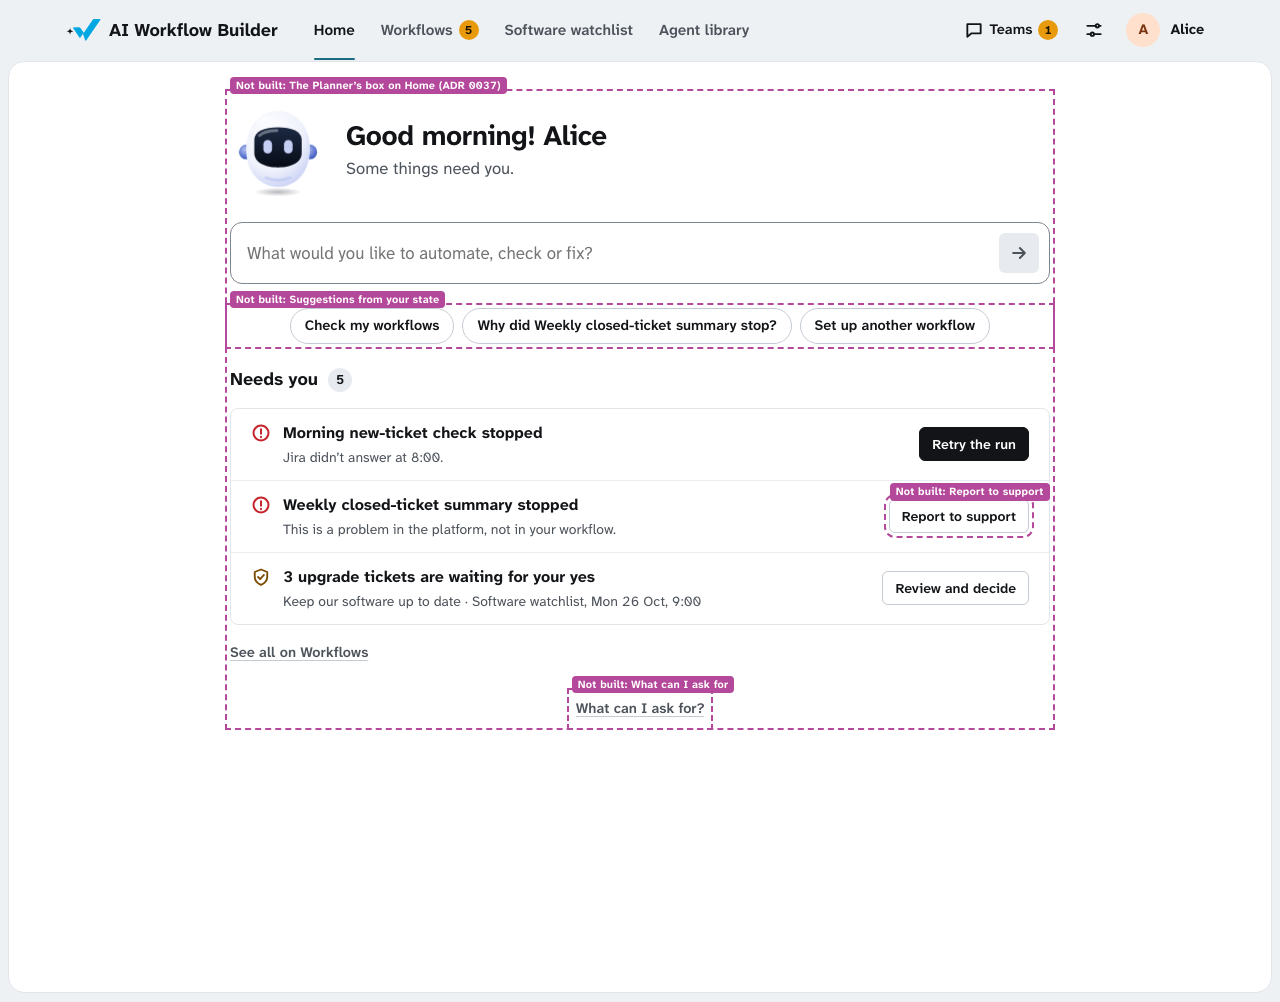
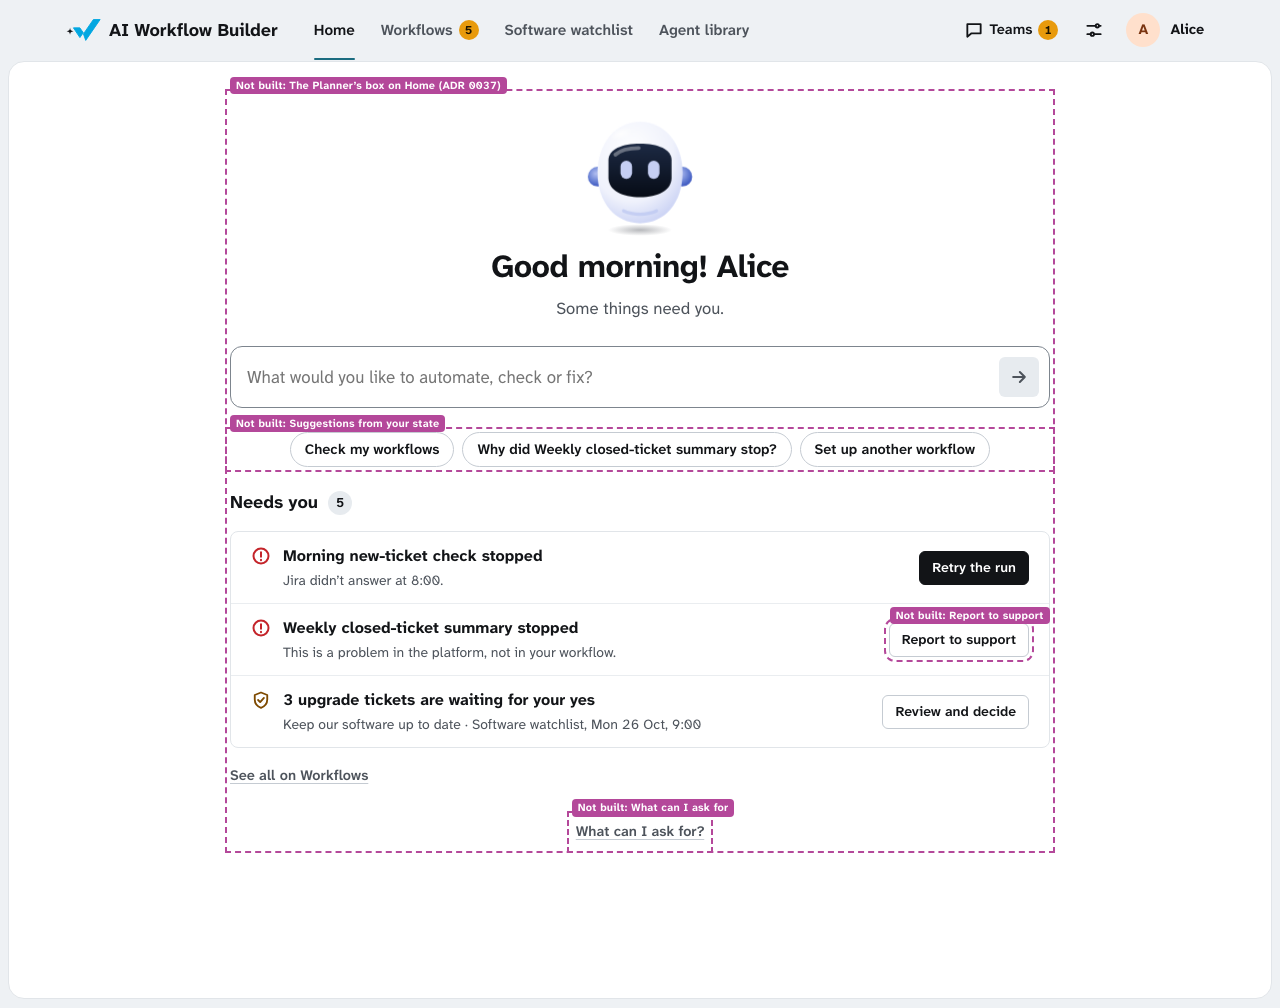
docs(builder): keep version 3's centred Home look in the redesign
The user preferred version 3's Home: the Visor bot centred on top, a large
centred heading, then the box and chips. Needs you rows now sit under the
chips. All checks pass on the change and the after screenshots are re-shot.

Claude-Session: https://claude.ai/code/session_0163kLzc62RqJZvY6wd8CwRb

diff --git a/docs/design/ai-native-redesign/prototype.html b/docs/design/ai-native-redesign/prototype.html
@@ -337,17 +337,20 @@ button, input, select, textarea { font: inherit; color: inherit; }
 .quiet-act { justify-content: center; margin-top: 14px; }
 .quiet-line { color: var(--muted); margin-bottom: 8px; }
 
-/* Home: the Planner, every day. The Visor bot sits beside the greeting and its one-line state, then the box (spec 5.1). */
+/* Home: the Planner, every day. The Visor bot stands centred above the greeting and its one-line state, as in
+   version 3, then the box, the suggestions and Needs you (spec 5.1). */
 .planner { display: grid; gap: 24px; }
-.welcome { display: grid; grid-template-columns: auto minmax(0, 1fr); align-items: center; column-gap: 20px; padding-top: 8px; }
-.welcome h1 { font-size: 1.75rem; }
-.welcome .lead { color: var(--muted); font-size: 1.05rem; max-width: 52ch; margin-top: 4px; }
-.welcome .face { width: 96px; height: 96px; }
+.welcome { display: grid; justify-items: center; text-align: center; gap: 10px; padding-top: 16px; }
+.welcome .hello-text { display: grid; justify-items: center; gap: 10px; }
+.welcome h1 { font-size: 2rem; max-width: 22ch; text-wrap: balance; }
+.welcome .lead { color: var(--muted); font-size: 1.05rem; max-width: 52ch; }
+.welcome .face { width: 128px; height: 128px; }
 /* Once the conversation starts, the welcome folds to one line, so the thread has the page. */
-.welcome.compact { column-gap: 12px; padding-top: 0; }
-.welcome.compact h1 { font-size: 1.25rem; }
+.welcome.compact { justify-items: start; text-align: left; padding-top: 0; grid-template-columns: auto minmax(0, 1fr); align-items: center; column-gap: 12px; }
+.welcome.compact .hello-text { justify-items: start; }
+.welcome.compact h1 { font-size: 1.25rem; max-width: none; }
 .welcome.compact .face { width: 52px; height: 52px; }
-@media (max-width: 600px) { .welcome { column-gap: 14px; } .welcome .face { width: 72px; height: 72px; } .welcome h1 { font-size: 1.375rem; } }
+@media (max-width: 600px) { .welcome .face { width: 96px; height: 96px; } .welcome h1 { font-size: 1.5rem; } }
 .composer { display: flex; align-items: flex-end; gap: 8px; padding: 10px 10px 10px 16px; border: 1px solid var(--edge); border-radius: 12px; background: var(--surface); }
 .composer:focus-within { outline: 3px solid var(--focus); outline-offset: 2px; }
 .composer textarea { flex: 1; min-width: 0; min-height: 0; border: 0; resize: none; background: none; padding: 7px 0; line-height: 1.45; max-height: 160px; font-size: 1.0625rem; }
@@ -389,7 +392,7 @@ button, input, select, textarea { font: inherit; color: inherit; }
 .composer textarea:disabled { color: var(--muted); }
 /* No AI model: the Planner's sorry pose and one way forward (spec 5.4). */
 .welcome.offline h1 { font-size: 1.5rem; max-width: 30ch; }
-.welcome.offline .btns { margin-top: 12px; }
+.welcome.offline .btns { margin-top: 2px; justify-content: center; }
 .composer.team-ask { margin-top: 16px; }
 .draft-row .btns { gap: 6px; }
 .tcard { margin-top: 8px; }
@@ -2570,7 +2573,7 @@ details > .m-close { animation: fold 140ms ease-in both; }
       : dayOne ? '<h1 tabindex="-1">What does your team do again and again?</h1><p class="lead">Tell me a task in plain English. I’ll set it up to run by itself. Anything that changes data waits for a yes from an Approver in Teams.</p>'
         : `<h1 tabindex="-1">Good morning! ${me().name}</h1><p class="lead">${stateLine(items)}</p>`;
     return `<div class="home planner" data-unbuilt="The Planner’s box on Home (ADR 0037)">
-      <div class="welcome${empty ? '' : ' compact'}">${face('lead', empty ? 96 : 52, c.hero, { live: empty && c.hero === 'idle', id: 'hero' })}<div class="hello-text">${hello}</div></div>
+      <div class="welcome${empty ? '' : ' compact'}">${face('lead', empty ? 128 : 52, c.hero, { live: empty && c.hero === 'idle', id: 'hero' })}<div class="hello-text">${hello}</div></div>
       ${empty ? '' : threadHTML()}
       ${composer(c, empty)}
       ${empty ? `<div class="chips examples" role="group" aria-label="${dayOne ? 'Starting points' : 'Suggestions'}"${dayOne ? '' : ' data-unbuilt="Suggestions from your state"'}>${suggestions().map((e, i) => `<button class="chip" data-act="example" data-arg="${i}">${e}</button>`).join('')}</div>` : '<div class="btns"><button class="linkbtn" data-act="newChat">New chat</button></div>'}
@@ -2586,7 +2589,7 @@ details > .m-close { animation: fold 140ms ease-in both; }
   function offlineHome() {
     const items = homeNeeds();
     return `<div class="home planner" data-unbuilt="The offline Home (ADR 0037)">
-      <div class="welcome offline">${face('lead', 96, 'sorry', { id: 'hero' })}<div class="hello-text"><h1 tabindex="-1">I can’t read new requests until an AI model is connected</h1><p class="lead">Until then, agent workflows can’t run and new ones can’t be planned. Only the Software watchlist keeps going, with a simple summary instead of a written one. Approvers can still decide.</p>
+      <div class="welcome offline">${face('lead', 128, 'sorry', { id: 'hero' })}<div class="hello-text"><h1 tabindex="-1">I can’t read new requests until an AI model is connected</h1><p class="lead">Until then, agent workflows can’t run and new ones can’t be planned. Only the Software watchlist keeps going, with a simple summary instead of a written one. Approvers can still decide.</p>
         <div class="btns"><button class="btn primary" data-act="setGo" data-arg="model">Connect a model</button></div></div></div>
       ${items.length ? needsStrip(items, 3, '', { total: needs().length, primary: false }) : ''}
       ${abilitiesHTML()}

diff --git a/docs/design/ai-native-redesign/screenshots/README.md b/docs/design/ai-native-redesign/screenshots/README.md
@@ -9,7 +9,7 @@ A full-page phone shot shows the fixed tab bar once, where the page was when it 
 | Screen | Desktop | Phone | What changed |
 |---|---|---|---|
 | Home, day one | [before](before/day-one-home-desktop.png), [after](after/day-one-home-desktop.png) | [before](before/day-one-home-phone.png), [after](after/day-one-home-phone.png) | The starting points no longer ask for tickets with no update. The Not yet list is folded under “What can’t I do yet?”, and the Workflows tab has no badge on day one. |
-| Home, a normal week | [before](before/home-desktop.png), [after](after/home-desktop.png) | [before](before/home-phone.png), [after](after/home-phone.png) | Home greets Alice with a line that has no count, suggests from her state, and lists the three most urgent of five things with one main button. “See all on Workflows” has no number. |
+| Home, a normal week | [before](before/home-desktop.png), [after](after/home-desktop.png) | [before](before/home-phone.png), [after](after/home-phone.png) | Home greets Alice with a line that has no count, suggests from her state, and lists the three most urgent of five things with one main button. “See all on Workflows” has no number. The bot, the greeting and the box keep version 3’s centred layout, with Needs you under the suggestions. |
 | Home, Approver only | [before](before/approver-home-desktop.png), [after](after/approver-home-desktop.png) | [before](before/approver-home-phone.png), [after](after/approver-home-phone.png) | Bob sees today’s approval rule, with no backup and no stop time, and no “Open in Teams” button. |
 | Planner, set-up card | [before](before/planner-setup-card-desktop.png), [after](after/planner-setup-card-desktop.png) | [before](before/planner-setup-card-phone.png), [after](after/planner-setup-card-phone.png) | The card is one sentence with chips, When, What needs a yes and a collapsed How this workflow works. The chat line has no count. |
 | Planner, can’t email | [before](before/planner-cant-email-desktop.png), [after](after/planner-cant-email-desktop.png) | [before](before/planner-cant-email-phone.png), [after](after/planner-cant-email-phone.png) | Email is “not on the team’s plan”, and the only next step is Ask the team, because a list of bugs needs the ticket type. The reply still opens with “I can make that list”, which isn’t true. |

diff --git a/docs/design/ai-native-redesign/AI-NATIVE-UX-REDESIGN.md b/docs/design/ai-native-redesign/AI-NATIVE-UX-REDESIGN.md
@@ -108,12 +108,14 @@ Taken from `agent-runtime/src/agent_runtime/tools.py` and `abilities.py` on 6 No
 
 ### 5.1 Operator, a normal week
 
+Home keeps version 3's look in every state: the Visor bot centred at the top (128 px, 96 px on a phone), a large centred heading, then the box and the suggestions. The user chose this on 7 Nov over an earlier version 4 layout that put the bot beside a smaller heading. Needs you sits under the suggestions in the same column. On a phone, the first Needs you row and its action still fit on the first screen.
+
 From top to bottom:
 
-1. **Greeting and a one-line state.**
+1. **The Visor bot, then the greeting and a one-line state,** centred.
    - "Good morning! Alice", the greeting the built app uses since commit 8a2a549. The line under it is computed from `needs()` and the workflows. It names what needs her without repeating the count the section heading already shows, for example "Here's what needs you. Your other workflows are on."
    - When nothing needs her, the line says when the next run is.
-2. **The box.** One large text box, with the Visor bot beside it.
+2. **The box.** One large text box under the greeting.
    - Placeholder: "What would you like to automate, check or fix?"
    - Enter sends. The send button is labelled for screen readers.
 3. **Three suggestions,** chosen from her state, never fixed:
